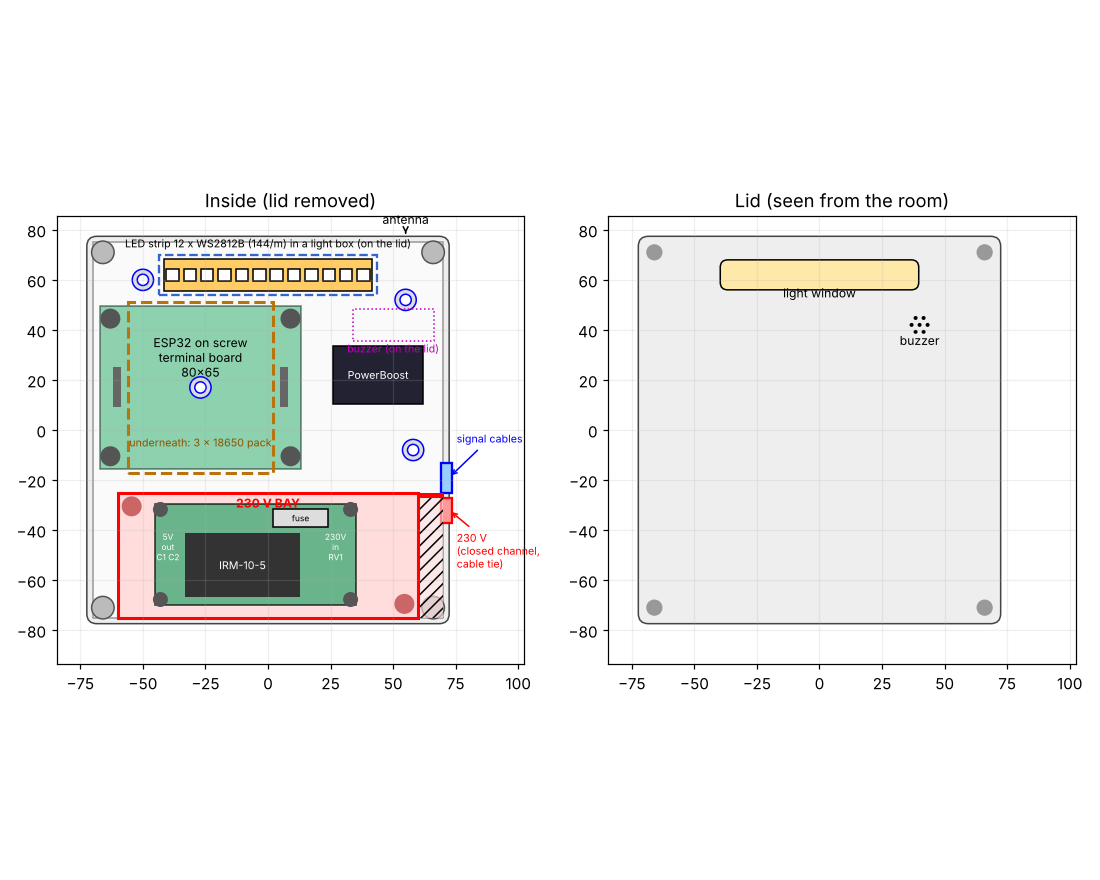
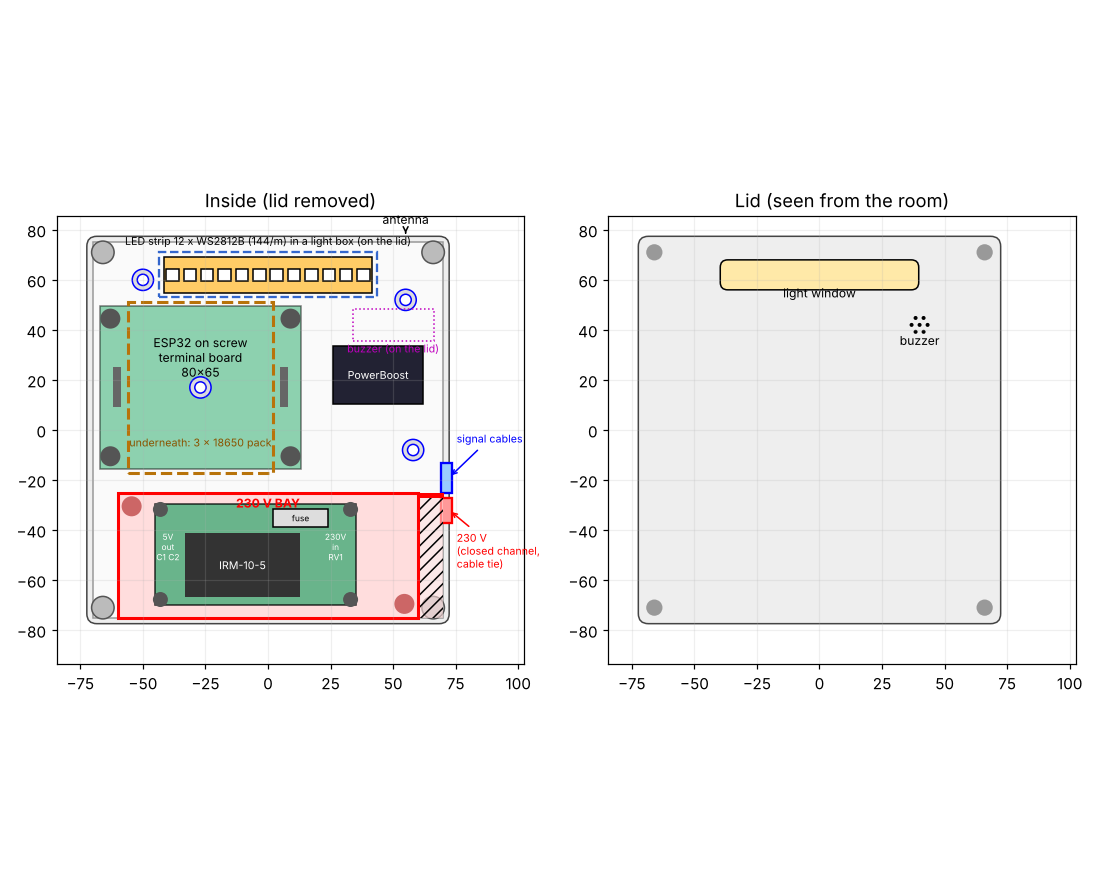
LED strip seat: 12 mm wide PCB
- strip_w 12.6: rib, rails, light box and acrylic bar (83.9 x 15.2) follow

Claude-Session: https://claude.ai/code/session_015e9f9p5EFhy5EoRU7fAuGL

Changed region(s): [[0.1236, 0.2455, 0.3709, 0.3375]]

diff --git a/README.md b/README.md
@@ -38,7 +38,7 @@ Tested with **ESPHome 2026.9.1**, an ESP32-WROOM-32U DevKit (38 pin) and a **Nuk
 - SSD1306 0.96" OLED, 7-pin SPI version (**CS must be wired to a GPIO**, not tied to GND)
 - AM312 PIR (HW-740) with a **100 kΩ** pull-down (10 kΩ is too strong for its output)
 - 2 × passive buzzer modules ("low level trigger"), outdoor and indoor
-- WS2812B strip, 144 LEDs/m, 10 mm wide (e.g. BTF-LIGHTING ECO IP30), cut to 12 LEDs (330 Ω in series with DIN). The enclosure lid has a light box with a 2 mm opal (milk white) acrylic bar, about 84 × 13 mm, as diffuser (or a printed white one), so the LEDs show as one even bar instead of separate dots. For a 60 LEDs/m strip or an 8-LED stick change `led_n`/`led_pitch` in the enclosure and `num_leds` in the firmware.
+- WS2812B strip, 144 LEDs/m, 12 mm wide PCB (e.g. BTF-LIGHTING ECO), cut to 12 LEDs (330 Ω in series with DIN). The enclosure lid has a light box with a 2 mm opal (milk white) acrylic bar, about 84 × 15 mm, as diffuser (or a printed white one), so the LEDs show as one even bar instead of separate dots. For a 60 LEDs/m strip or an 8-LED stick change `led_n`/`led_pitch` in the enclosure and `num_leds` in the firmware.
 - 19 mm vandal-proof push button with 3–6 V LED ring
 - Subminiature lever microswitch (20 × 10.8 × 6.5 mm, steel lever, C/NO/NC contacts; use C + NO)
 - Reed switch + 6 × 2 mm magnet, wired in series with the microswitch
